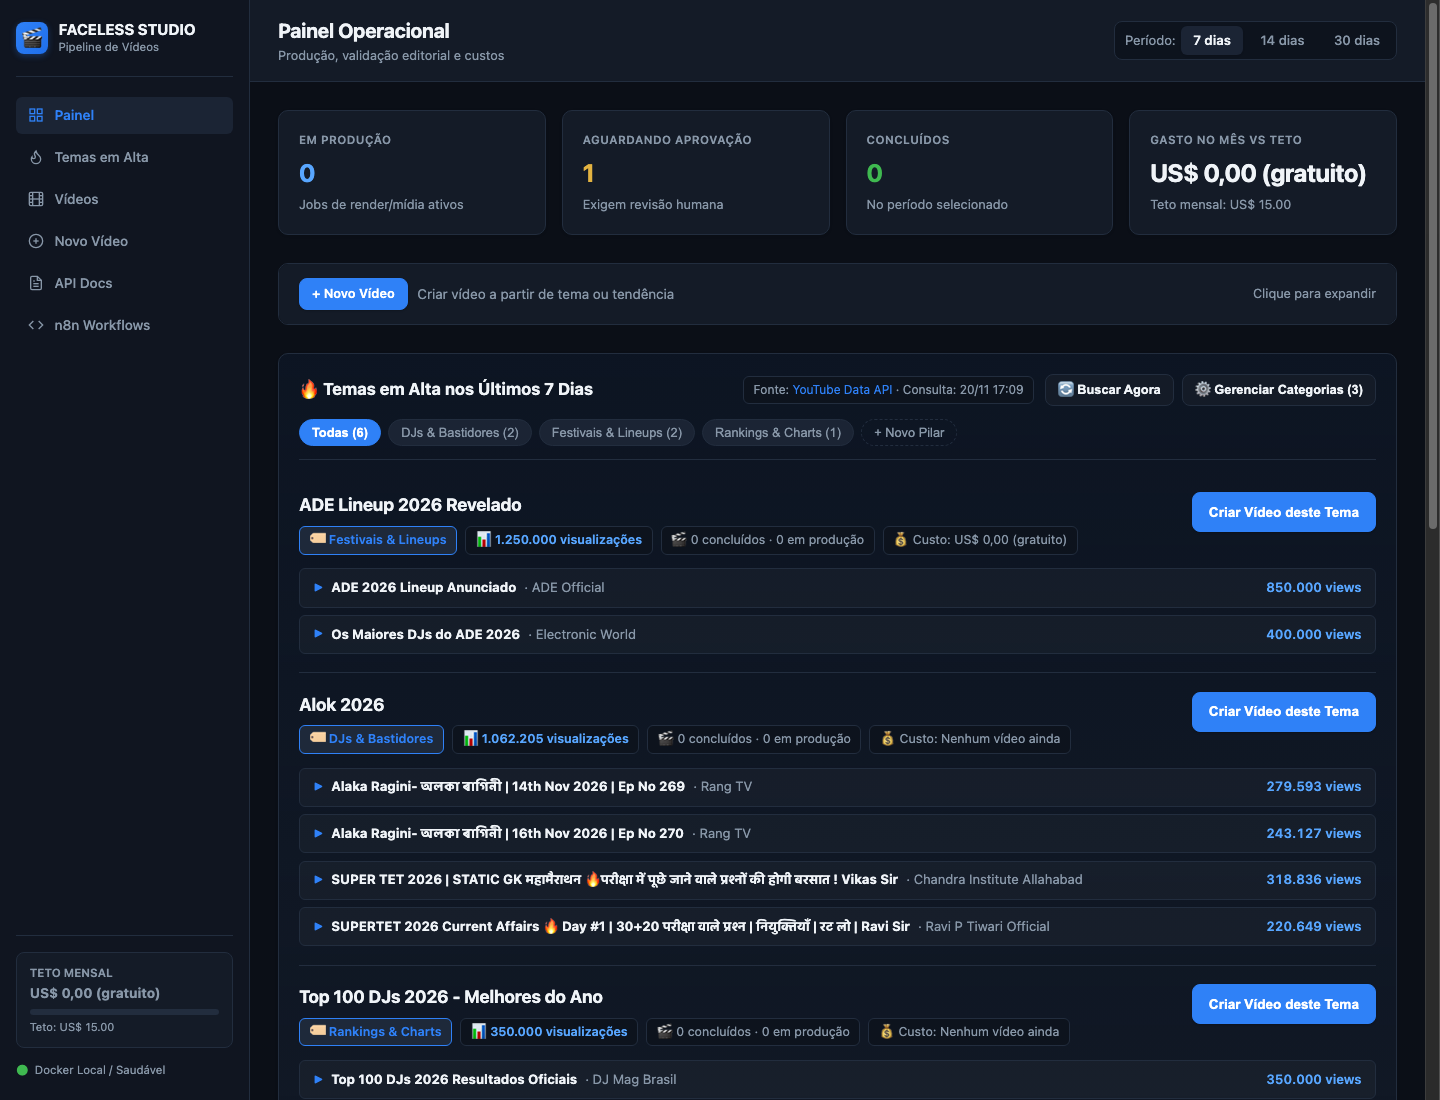
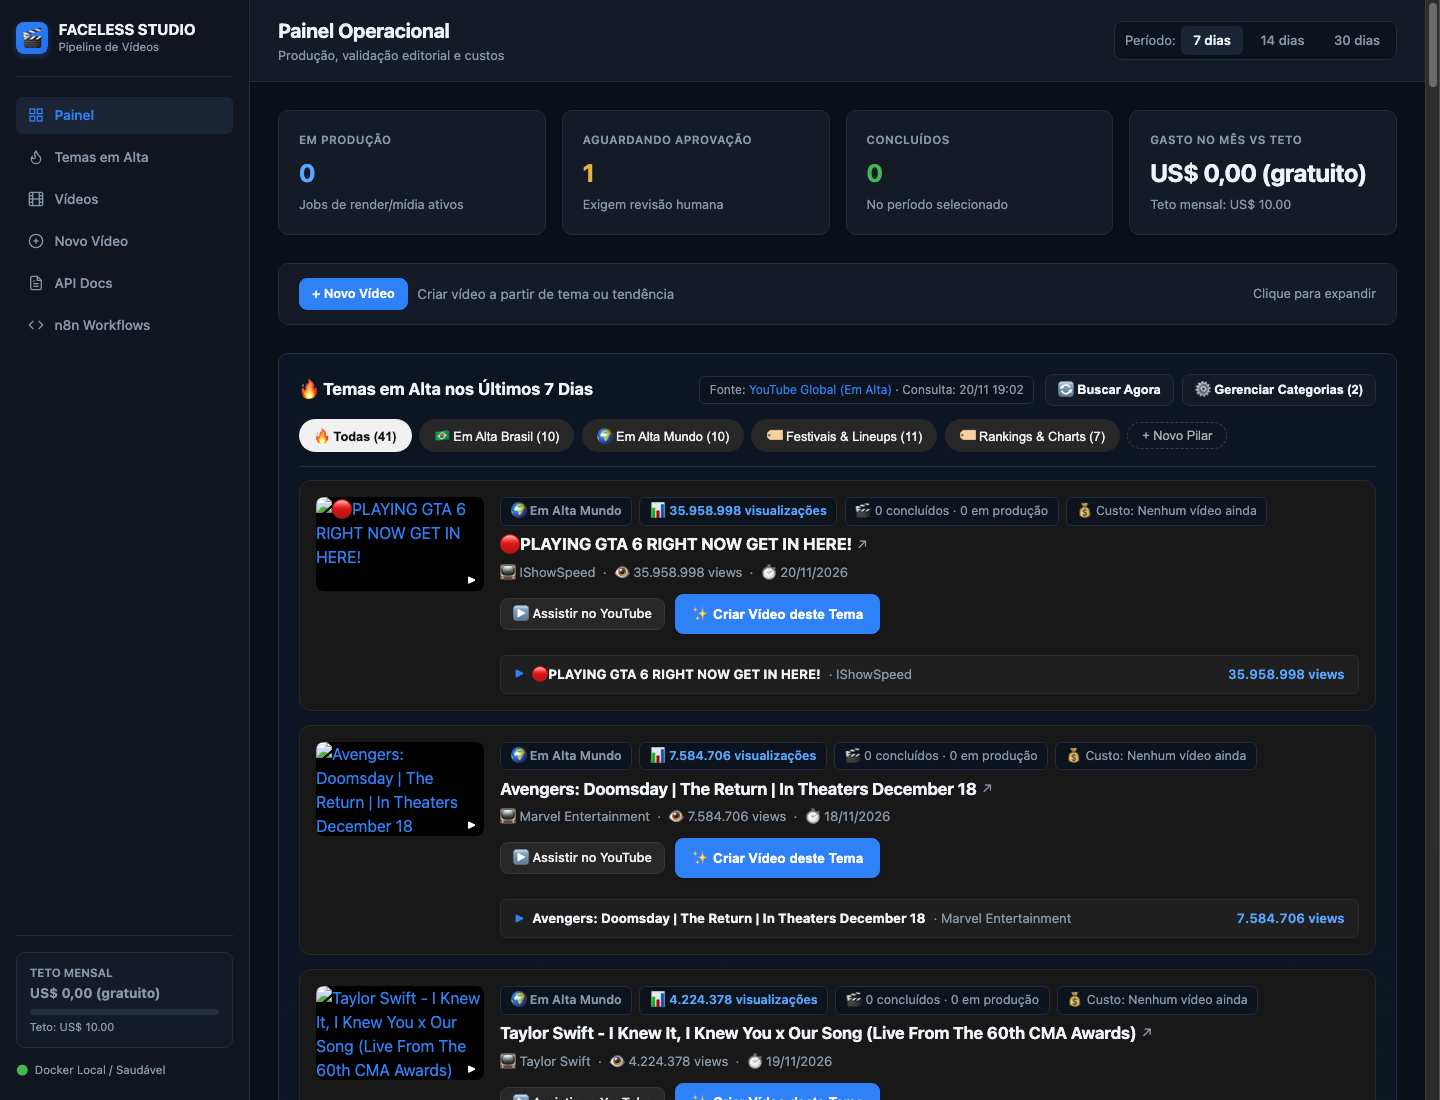
docs: document trends radar, YouTube cards, and updated dashboard screenshot

diff --git a/docs/18-painel.md b/docs/18-painel.md
@@ -47,21 +47,25 @@ O painel do Faceless Studio é a interface visual para acompanhar a produção d
 - **Publicação:** Exibe o status da tentativa de upload e eventuais mensagens de erro de rede.
 
 ### 6. Seção de Temas em Alta e Pilares de Conteúdo
-- **Origem dos Dados:** Ingestão diária de tópicos e evidências da YouTube Data API v3 (workflow `05-trends-daily.json`) ou coleta sob demanda acionada diretamente no painel.
-- **Pilares de Conteúdo (Categorias):**
-  - Barra de pílulas (*chips*) no topo da seção: **Todas (N)**, cada pilar com seu contador de tópicos correspondentes e o botão de atalho **+ Novo Pilar**.
-  - O clique em uma pílula filtra os tópicos na tela instantaneamente, destacando apenas os temas pertencentes ao pilar escolhido.
-  - Cada cartão de tema exibe o distintivo com o pilar associado (ex.: `🏷 Festivais & Lineups`).
-- **Ações Rápidas na Barra:**
-  - **🔄 Buscar Agora:** Dispara atualização sob demanda via YouTube Data API v3 (`POST /studio/projects/{id}/trends/refresh`), trazendo evidências e visualizações recentes sem esperar o agendamento noturno.
+- **Origem dos Dados:** Ingestão diária de tópicos e evidências da YouTube Data API v3 (workflow `05-trends-daily.json`) ou coleta sob demanda acionada diretamente no painel. O radar unifica tendências de **Em Alta Brasil**, **Em Alta Mundo** (`chart=mostPopular`) e buscas temáticas por pilares de conteúdo.
+- **Pílulas de Filtro (Estilo Oficial do YouTube):**
+  - Barra de pílulas arredondadas (*chips/pills*) com visual fiel ao YouTube: **🔥 Todas (N)**, atalhos rápidos de região **🇧🇷 Em Alta Brasil (N)** e **🌍 Em Alta Mundo (N)**, cada pilar de categoria com seu contador e o botão de atalho **+ Novo Pilar**.
+  - O clique em uma pílula filtra os tópicos na tela instantaneamente via JavaScript (sem recarregar a página), destacando apenas os temas correspondentes.
+- **Cards de Tendência no Estilo YouTube Dark:**
+  - **Miniaturas 16:9:** Exibição da thumbnail oficial do vídeo (`hqdefault.jpg`) com proporção 16:9, cantos arredondados e overlay de play (`▶`) ao passar o mouse.
+  - **Links Diretos para o YouTube:** Links para assistir ao vídeo oficial tanto clicando na miniatura, no título (com ícone `↗`) quanto pelo botão de ação `▶ Assistir no YouTube` (abertura segura com `target="_blank"` e `rel="noopener noreferrer"`).
+  - **Badges e Metadados:** Badges com destaque de região (`🇧🇷 Em Alta Brasil` / `🌍 Em Alta Mundo`), visualizações formatadas (`📊 X.XXX.XXX visualizações`), status dos vídeos no pipeline (`🎬 N concluídos · M em produção`) e custo acumulado. Abaixo do título, exibe o nome do canal (`📺`), contagem de views e data de publicação.
+  - **Evidências:** Painel expansível com detalhes das evidências e contagem de views individuais.
+- **Ações Rápidas e Interatividade:**
+  - **🔄 Buscar Agora:** Dispara atualização sob demanda via YouTube Data API v3 (`POST /studio/projects/{id}/trends/refresh`), trazendo vídeos em alta e métricas recentes. Exibe indicador de carregamento animado (spinner giratório), desativa o botão durante a requisição para evitar chamadas duplicadas e apresenta feedback de sucesso/erro em tempo real.
   - **⚙ Gerenciar Categorias:** Abre o modal de gerenciamento de pilares para cadastrar novos pilares, ajustar termos de busca curados (até 10 por pilar) ou remover pilares existentes.
-- **Verificabilidade:** Cada tema exibe a fonte oficial (`YouTube Data API`), o link direto, a data/hora da consulta e as visualizações agregadas dos principais vídeos da janela.
-- **Status do Período:**
+- **Criar Vídeo deste Tema:**
+  - O botão `✨ Criar Vídeo deste Tema` preenche automaticamente o campo de tema no formulário `+ Novo Vídeo`, abre o formulário caso esteja fechado e realiza uma rolagem suave (*smooth scroll*) com foco imediato no campo de tema para o operador revisar o projeto e formato antes de iniciar a produção.
+- **Verificabilidade e Status:**
+  - Cada tema exibe a fonte oficial (`YouTube Brasil (Em Alta)`, `YouTube Global (Em Alta)` ou `YouTube Data API`), o link direto e a data/hora da consulta.
   - Se a consulta estiver dentro da janela do filtro, exibe os tópicos normalmente.
   - Se a última consulta for mais antiga que o filtro, exibe a etiqueta `Desatualizado`.
-  - Se ainda não houve ingestão, exibe `Ainda não há coleta de tendências registrada para o período selecionado.` (sem inventar dados).
-- **Criar Vídeo deste Tema:**
-  - O botão preenche automaticamente o campo de tema no formulário `+ Novo Vídeo` e abre o formulário para o operador revisar o projeto e formato antes de criar.
+  - Se ainda não houve ingestão, exibe `Ainda não há coleta de tendências registrada para o período selecionado.` (sem dados fictícios).
 
 ### 7. Gerenciamento de Pilares de Conteúdo (Modal)
 - O modal permite definir os eixos editoriais estratégicos do canal.

diff --git a/docs/19-tendencias.md b/docs/19-tendencias.md
@@ -21,14 +21,22 @@ Se qualquer item do lote violar esses critérios, o lote inteiro é recusado (`T
 - A cota diária gratuita padrão da Google Cloud Console é de **10.000 unidades/dia** por projeto.
 - Essa cota é **compartilhada** entre a coleta e a publicação de vídeos:
   - `videos.insert` (upload de vídeo): **1.600 unidades** por tentativa.
-  - `search.list` (pesquisa de vídeos em alta na janela): **100 unidades** por consulta.
+  - `search.list` (pesquisa de vídeos por palavra-chave na janela): **100 unidades** por consulta.
+  - `videos.list` com `chart=mostPopular` (Em Alta Brasil e Em Alta Mundo): **apenas 1 unidade** por chamada de até 50 vídeos.
   - `videos.list` (estatísticas de visualização): **1 unidade** por lote de até 50 vídeos.
 
-### 2. Teto e Moderação de Uso
-- O workflow diário de tendências limita-se a **no máximo 10 consultas curadas por dia** (≈ 1.010 unidades de cota).
-- Isso preserva cerca de **9.000 unidades diárias**, garantindo margem para até 5 uploads diários sem esgotar a cota (`quotaExceeded`).
+### 2. Radar de Tendências: Em Alta Brasil e Mundo (Alta Eficiência)
+Para enriquecer a esteira sem consumir a cota de 100 unidades do `search.list`, o Studio incorpora a coleta de tendências gerais por região:
+- **Em Alta Brasil:** `videos.list` com `chart=mostPopular` e `regionCode=BR`. Custo: **1 unidade de cota**.
+- **Em Alta Mundo:** `videos.list` com `chart=mostPopular` e `regionCode=US` (global). Custo: **1 unidade de cota**.
+- **Fonte Oficial e Hosts Autorizados:** Os itens coletados via `chart=mostPopular` utilizam `source_name = "YouTube Brasil (Em Alta)"` ou `"YouTube Global (Em Alta)"` e `source_url = "https://www.youtube.com/feed/trending"`. O host `www.youtube.com` faz parte dos hosts permitidos no domínio (`STUDIO_TREND_SOURCES`).
+- O endpoint unificado `POST /studio/projects/{id}/trends/refresh` busca simultaneamente as paradas de Brasil, Mundo e os termos curados de cada pilar de conteúdo com resiliência a falhas parciais.
 
-### 3. Parâmetros das Consultas
+### 3. Teto e Moderação de Uso
+- A combinação de **Em Alta (2 unidades no total)** com as consultas curadas de pilares mantém o consumo diário tipicamente abaixo de **500 unidades**.
+- Isso preserva mais de **9.500 unidades diárias**, garantindo margem segura para múltiplos uploads diários sem esgotar a cota (`quotaExceeded`).
+
+### 4. Parâmetros das Consultas de Pilares
 - `q`: Termo de busca curado no projeto (ex.: `"ADE lineup"`, `"Amsterdam Dance Event"`).
 - `type`: `video`
 - `order`: `viewCount`
@@ -92,3 +100,13 @@ As operações de categorias são autenticadas por `STUDIO_WORKER_TOKEN` (Bearer
 - **Atualizado:** Consulta realizada dentro da janela do filtro selecionado.
 - **Desatualizado (stale):** Se a última consulta bem-sucedida for mais antiga que o período selecionado (ex.: consulta de 10 dias atrás para um filtro de 7 dias), o painel exibe um aviso explícito de que os dados estão desatualizados.
 - **Sem Coleta:** Se nunca houve ingestão ou se a cota foi atingida, o painel exibe `"Ainda não há coleta de tendências"` — nunca dados fictícios.
+
+---
+
+## Experiência Visual do Radar (Padrão YouTube)
+
+O painel adota os padrões de interface oficiais do YouTube para garantir usabilidade ágil e familiaridade ao operador:
+- **Cards no Estilo YouTube Dark:** Cards em fundo escuro (`#0f0f0f` / `#1f1f1f`) com miniaturas 16:9 (`hqdefault.jpg`), badges informativas de região (`🇧🇷 Em Alta Brasil`, `🌍 Em Alta Mundo`), contadores formatados de views, e links diretos para assistir ao vídeo oficial no YouTube (`▶ Assistir no YouTube`).
+- **Pílulas Arredondadas de Filtro:** Filtros rápidos no formato de pílulas oficiais do YouTube no topo da seção (`Todas`, `Em Alta Brasil`, `Em Alta Mundo` e pilares de conteúdo), permitindo alternar instantaneamente a visualização sem recarregar a página.
+- **Feedback Interativo:** Durante a atualização sob demanda (`🔄 Buscar Agora`), o painel exibe um indicador animado de carregamento (*spinner* giratório), desabilitando o botão para prevenir disparos duplicados.
+- **Criação Direta com Scroll Suave:** O botão `✨ Criar Vídeo deste Tema` preenche o tema selecionado no formulário de novo vídeo, abre a seção recolhida e realiza rolagem suave com foco imediato no campo.
